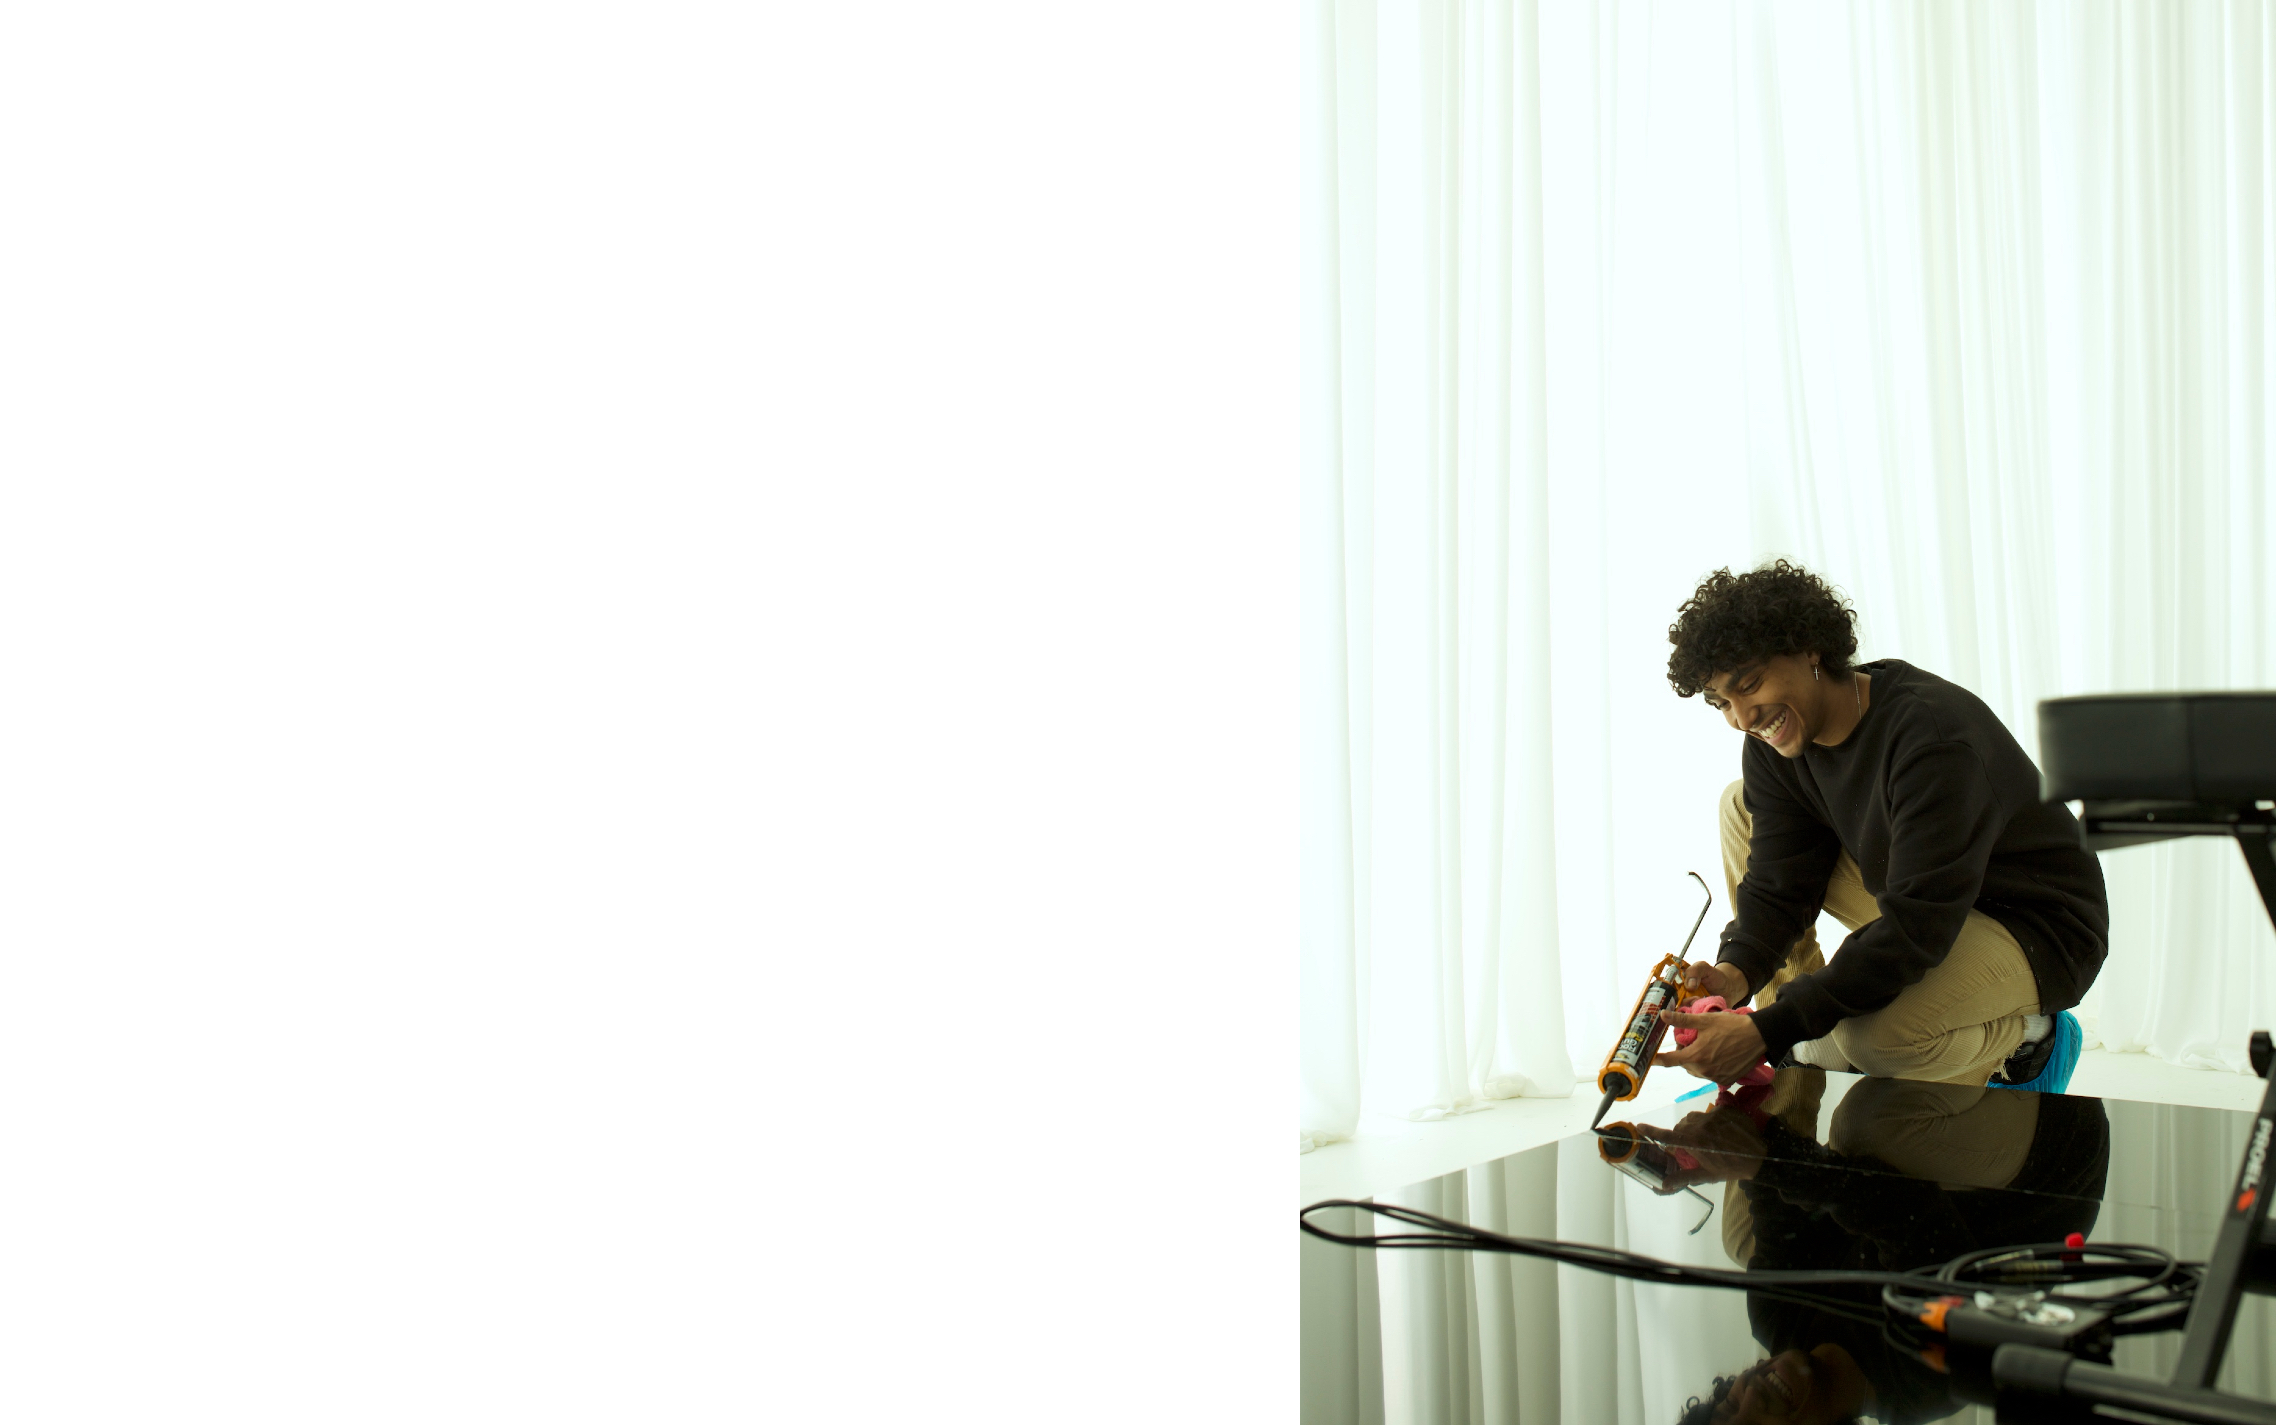
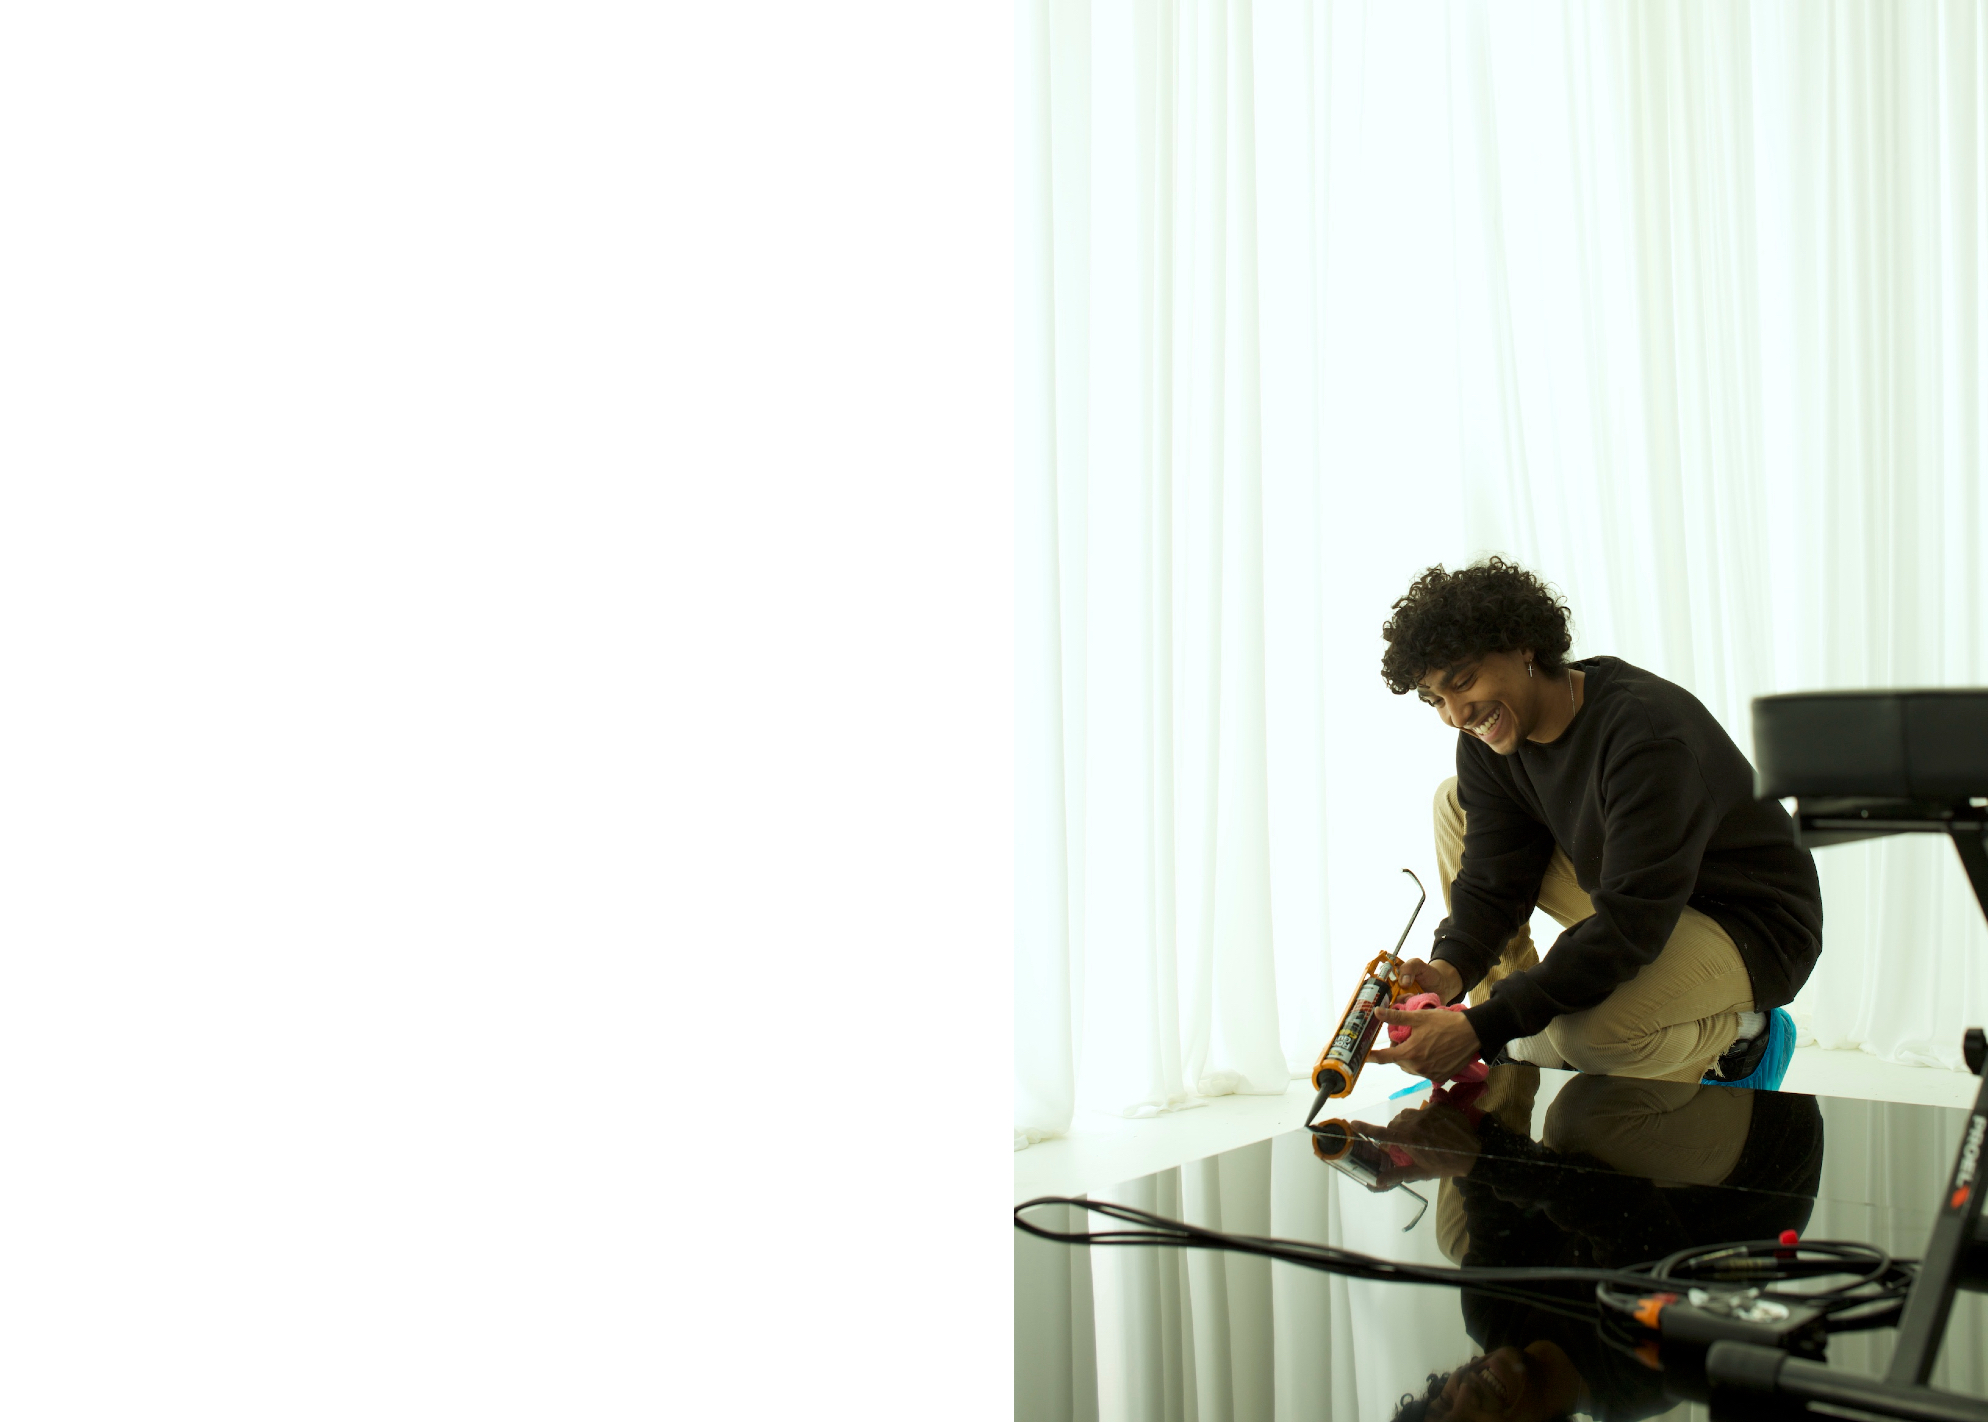
regular laptop sizing WIP

diff --git a/src/styles.css b/src/styles.css
@@ -23,6 +23,7 @@
 nav.navbar.navbar-expand-lg.navbar-light.bg-transparent {
   position: relative;
   z-index: 3;
+  height: 7vh;
 }
 .centered-text{
   width: 70vw;
@@ -49,15 +50,15 @@ nav.navbar.navbar-expand-lg.navbar-light.bg-transparent {
 }
 
 .contact-page {
-  background-image: url('background/about4k.jpg');
-  background-repeat: no-repeat;
-  background-size: cover;
   display: flex;
   justify-content: center;
-  height: 100%;
+  height: 93vh;
   width: 100%;
   z-index: 99;
   color: black;
+  background-image: url('background/about4k.jpg');
+  background-repeat: no-repeat;
+  background-size: cover;
 }
 
 .black {
@@ -139,12 +140,12 @@ h2 {
   font-size: 0.65em;
 }
 .boxed {
-  padding-top: 5%;
+  margin-top: 10vw;
   margin-bottom: 20%;
-  width: 87%;
+  /* width: 87%; */
   height: 85%;
   z-index: 1;
-  margin-right: 20vw;
+  /* margin-right: 20vw; */
   text-align: center;
 }
 textarea {
@@ -230,7 +231,7 @@ figure.gallery__item.gallery__item--5 {
   .boxed {
     padding-top: 15%;
     margin-bottom: 10%;
-    width: 85%;
+    /* width: 85%; */
     height: 90%;
     z-index: 1;
   }
@@ -271,7 +272,7 @@ figure.gallery__item.gallery__item--5 {
   .boxed {
     padding-top: 20%;
     margin-bottom: 10%;
-    width: 80%;
+    /* width: 80%; */
     height: 90%;
     z-index: 1;
   }
@@ -422,7 +423,7 @@ height: 30px;
   }
   
   .boxed {
-    padding-top: 7%;
+    margin-top: 5vw;
     margin-bottom: 10%;
     width: 80%;
     height: 95%;
@@ -605,9 +606,10 @@ height: 30px;
   .boxed {
     padding-top:7%;
     margin-bottom: 10%;
-    width: 60%;
+    /* width: 60%; */
     height: 90%;
     z-index: 1;
+    margin-right: 10vw;
   }
 
 
@@ -627,7 +629,14 @@ html,
 body,
 #root {
   height: 100%;
+  overflow: scroll;
 }
+
+/* .background-no-scroll {
+  background-image: url('background/about4k.jpg');
+  background-repeat: no-repeat;
+  background-size: cover;
+} */
 
 :root {
   font-size: 20px;
@@ -740,7 +749,7 @@ body {
   margin: 0;
   padding: 0;
   background: black;
-  overflow: hidden;
+  overflow: scroll;
   font-family: 'defonte-leger';
   color: white;
   font-size: 0.9rem;

diff --git a/src/App.css b/src/App.css
@@ -18,7 +18,7 @@ body {
   margin: 0;
   padding: 0;
   background: #0c0f13;
-  overflow: hidden;
+  overflow: scroll;
   font-family: 'defonte-leger';
   color: #8b8b8b;
   font-size: 0.9rem;
@@ -37,7 +37,7 @@ a:hover {
 #root {
   width: 100vw;
   height: 100vh;
-  overflow: hidden;
+  overflow: scroll;
 }
 
 .loading {
@@ -93,7 +93,7 @@ a:hover {
 
 @media screen and (min-width: 53em) {
 	body {
-		overflow: hidden;
+		overflow: scroll;
 	}
 	.frame {
     display: grid;

diff --git a/src/index.js b/src/index.js
@@ -301,6 +301,7 @@ function Contact() {
   return (
     <>
       <NavBar contact="active_tab" />
+      <div className="background-no-scroll">
 
       <div className="contact-page">
         <div className="boxed">
@@ -322,6 +323,7 @@ function Contact() {
 
           </div>
         </div>
+      </div>
       </div>
     </>)
 }

diff --git a/src/store.js b/src/store.js
@@ -15,7 +15,7 @@ const state = {
       {
       header: "The Tate: Reframed x Steamdown",
       image: "/tate.jpg",
-      text1: "directed by Maxim Kelly",
+      text1: "directed by Lily Bonesso",
       text2: "production design by Jimmy Van Twest & Sarah Asmail",
       video: "ogJtu-lQGic",
       channel: "youtube",
